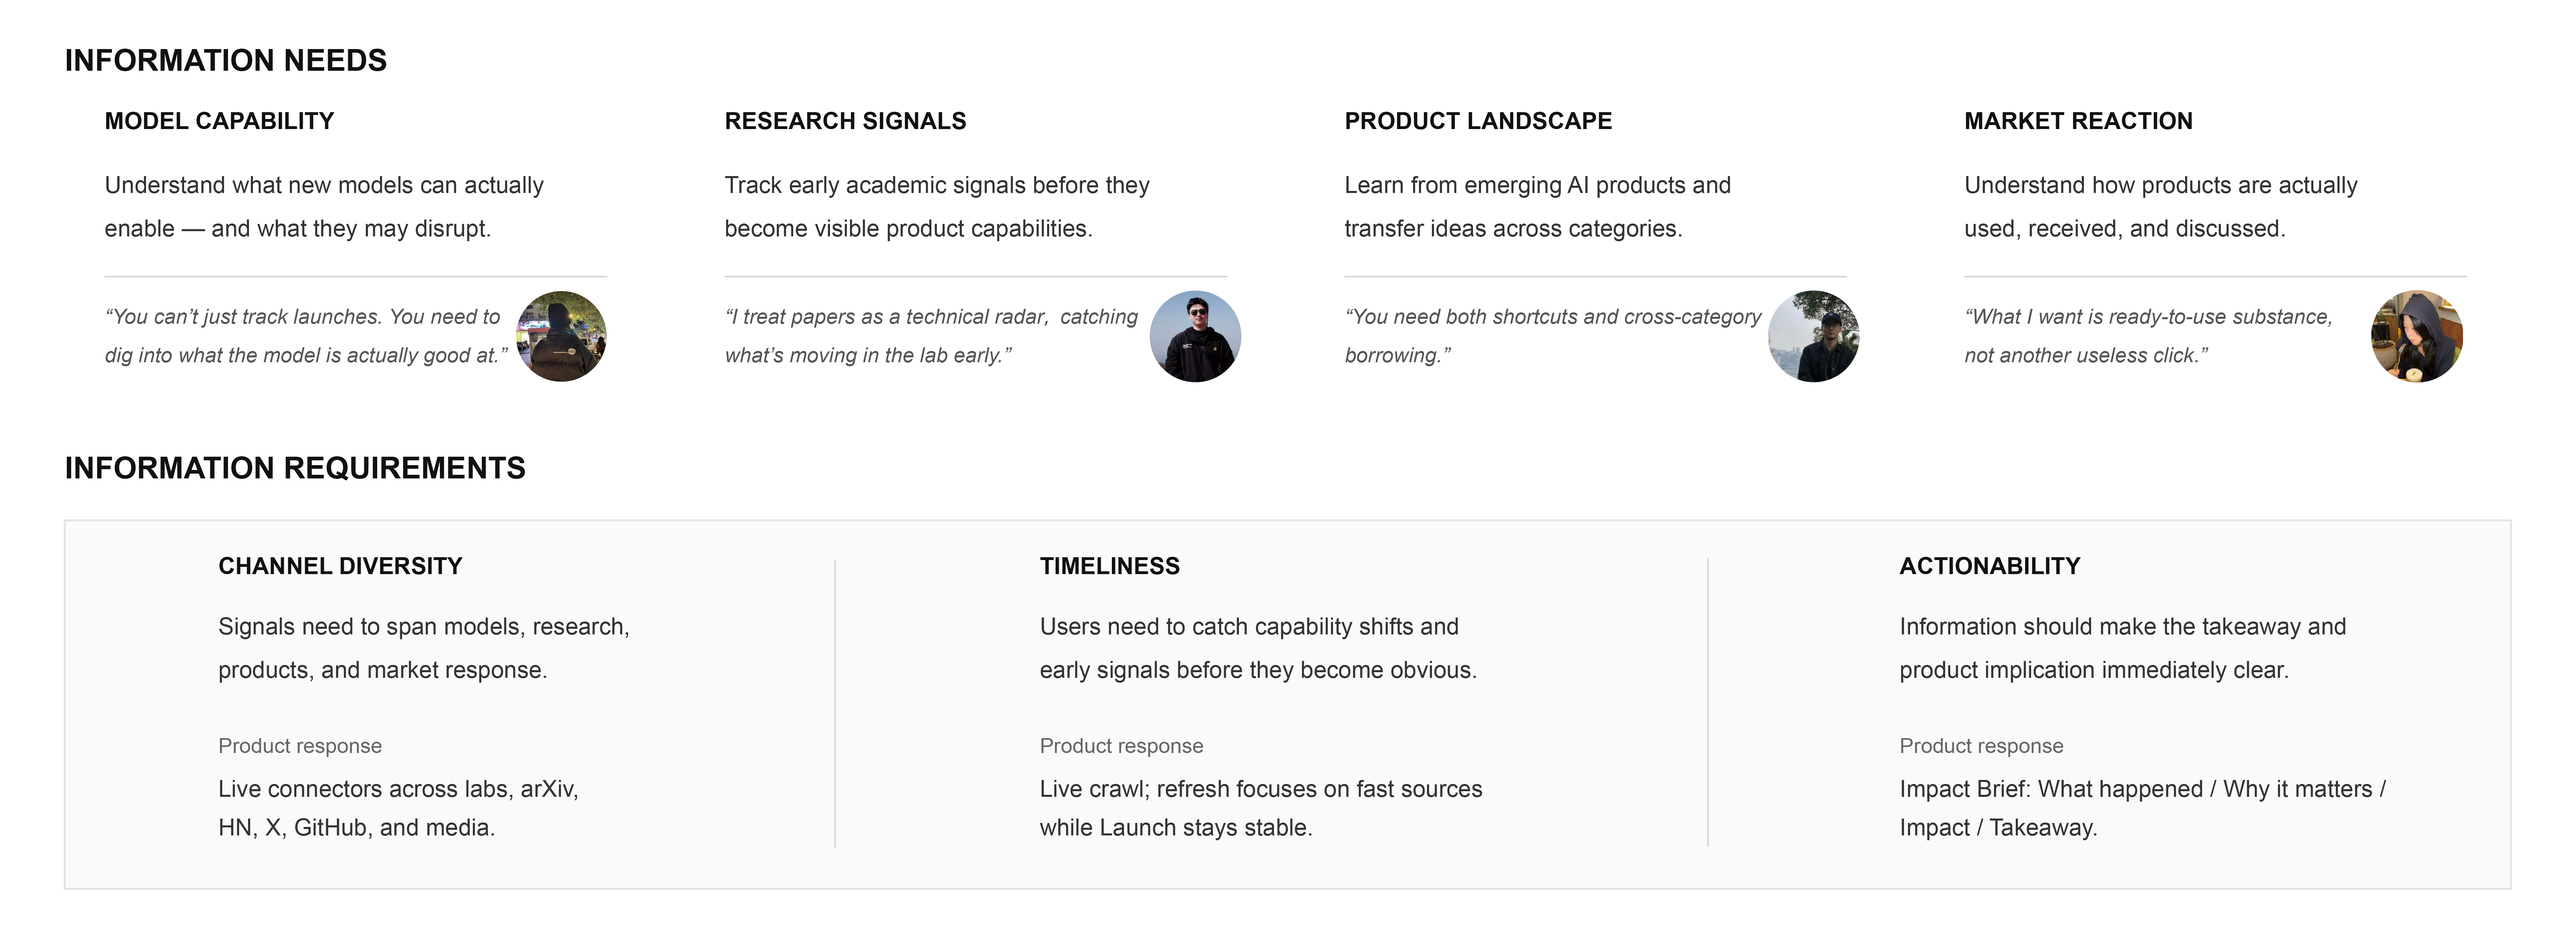
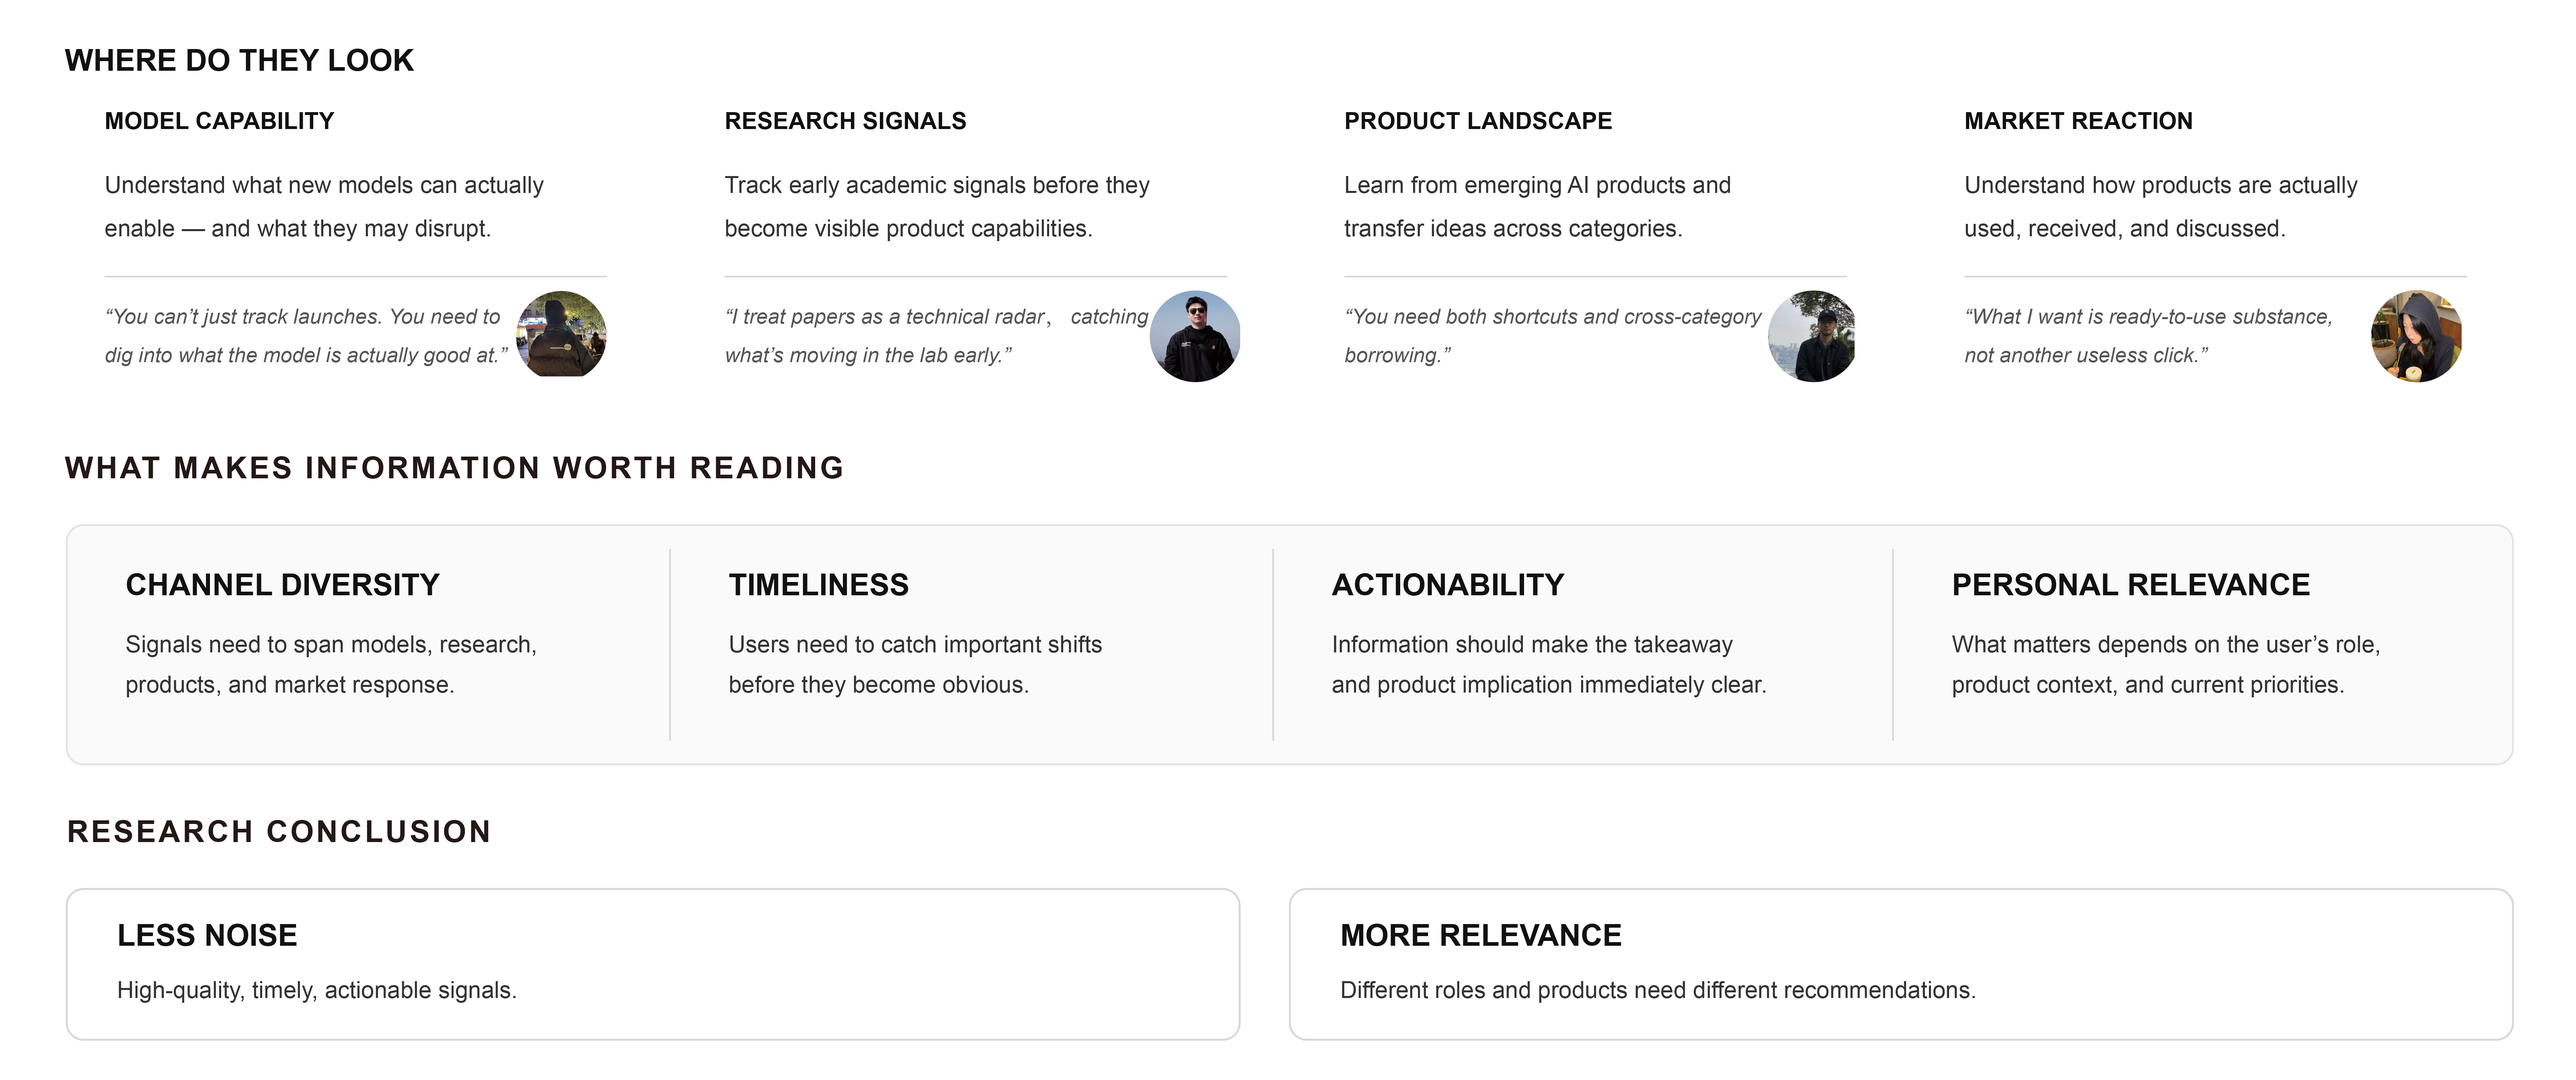
Refresh the Signal user-research figure and tighten its framing.

diff --git a/src/components/project/content/SignalContent.jsx b/src/components/project/content/SignalContent.jsx
@@ -9,9 +9,9 @@ const TAGS = ['AI Product', 'Information Architecture', 'Product Design'];
 const IMAGES = [
   {
     src: '/assets/Signal/signal_user_research.png',
-    alt: 'User research — information needs and requirements for AI PMs and designers',
+    alt: 'User research — where they look, what makes information worth reading, and the research conclusion',
     caption:
-      'Figure 1 — User research: four information needs (model capability, research signals, product landscape, market reaction) and three requirements (channel diversity, timeliness, actionability).',
+      'Figure 1 — User research: where they look (model capability, research signals, product landscape, market reaction) and what makes information worth reading (channel diversity, timeliness, actionability, personal relevance).',
   },
   {
     src: '/assets/Signal/signal_system_overview.png',
@@ -90,14 +90,9 @@ export default function SignalContent() {
 
       <ProjectSection title="User Research" titleId="signal-research">
         <p className="uos-sec-prose">
-          Interviews asked a single question: what information do AI PMs and designers need to stay
-          ahead of AI change? Four needs came back: model capability, research signals, the product
-          landscape, and market reaction. In addition, three requirements for the information
-          itself: diversity of channels, timeliness, and a takeaway they can act on.
-        </p>
-        <p className="uos-sec-callout">
-          The problem wasn&apos;t access to AI information — it was knowing what to watch, what to
-          trust, and what it means for the product.
+          I focused my research on two questions: where do AI product managers, designers, and
+          researchers look for information, and what makes that information worth their limited
+          attention?
         </p>
         <Fig src="/assets/Signal/signal_user_research.png" />
       </ProjectSection>
